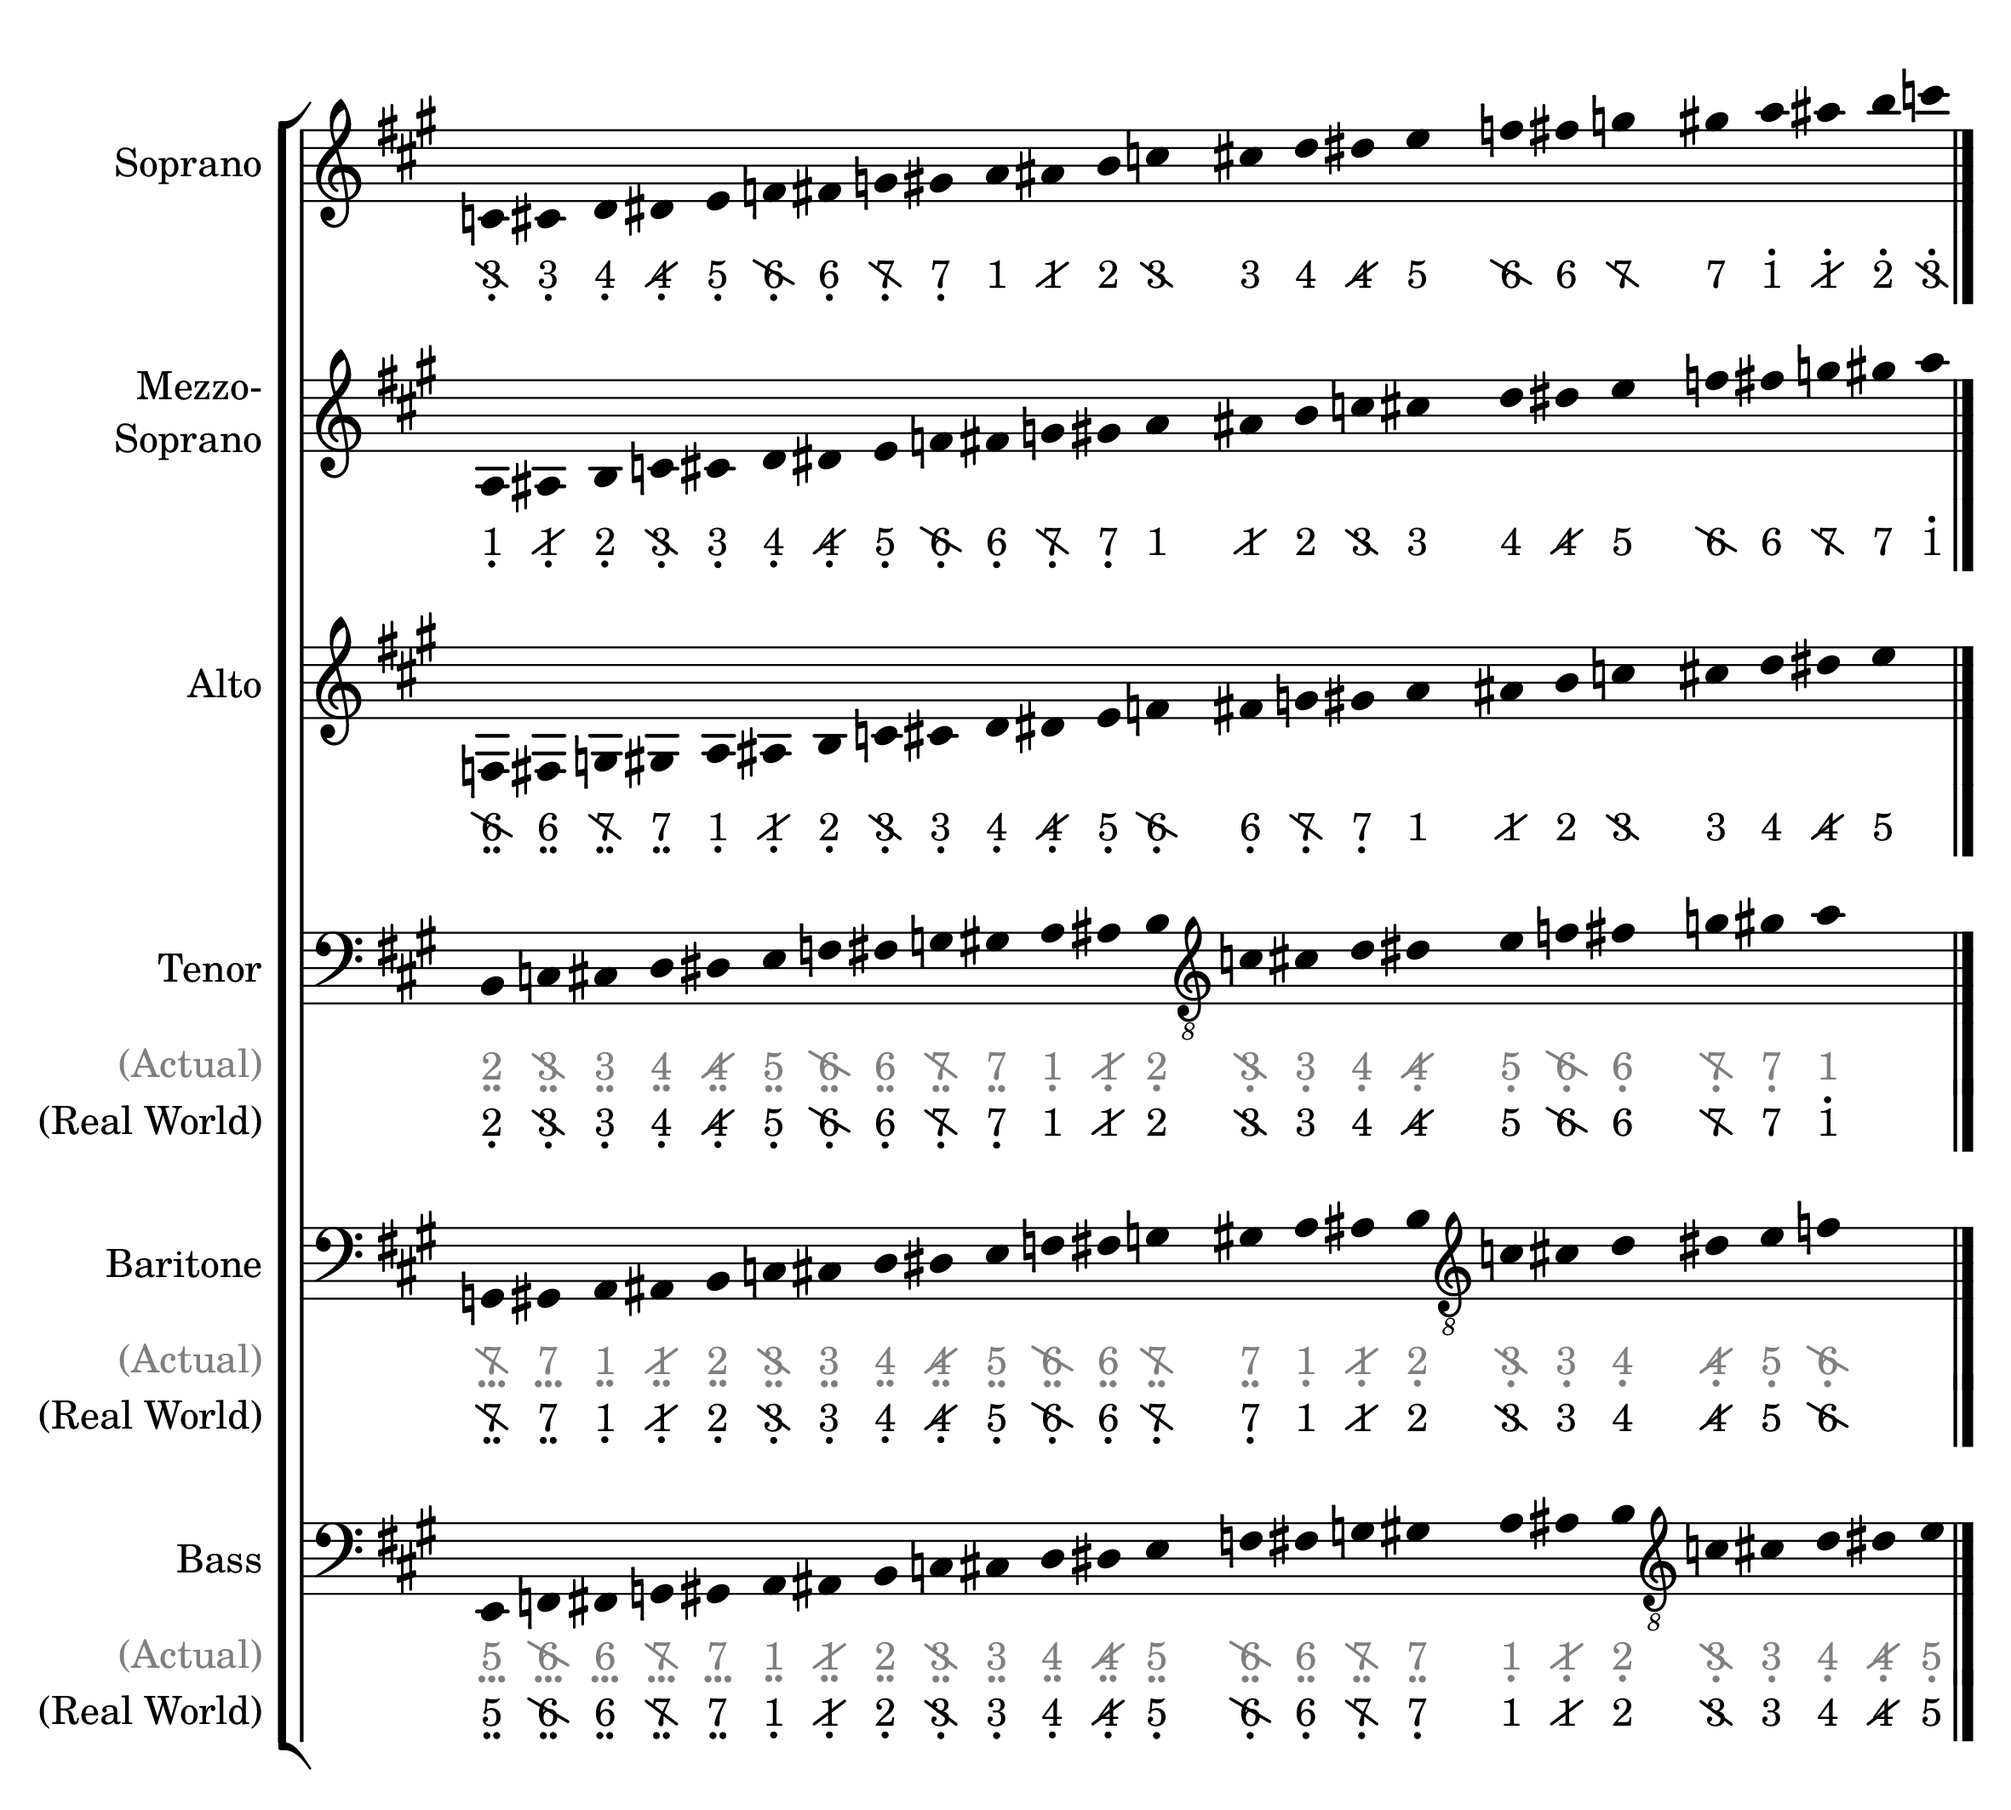
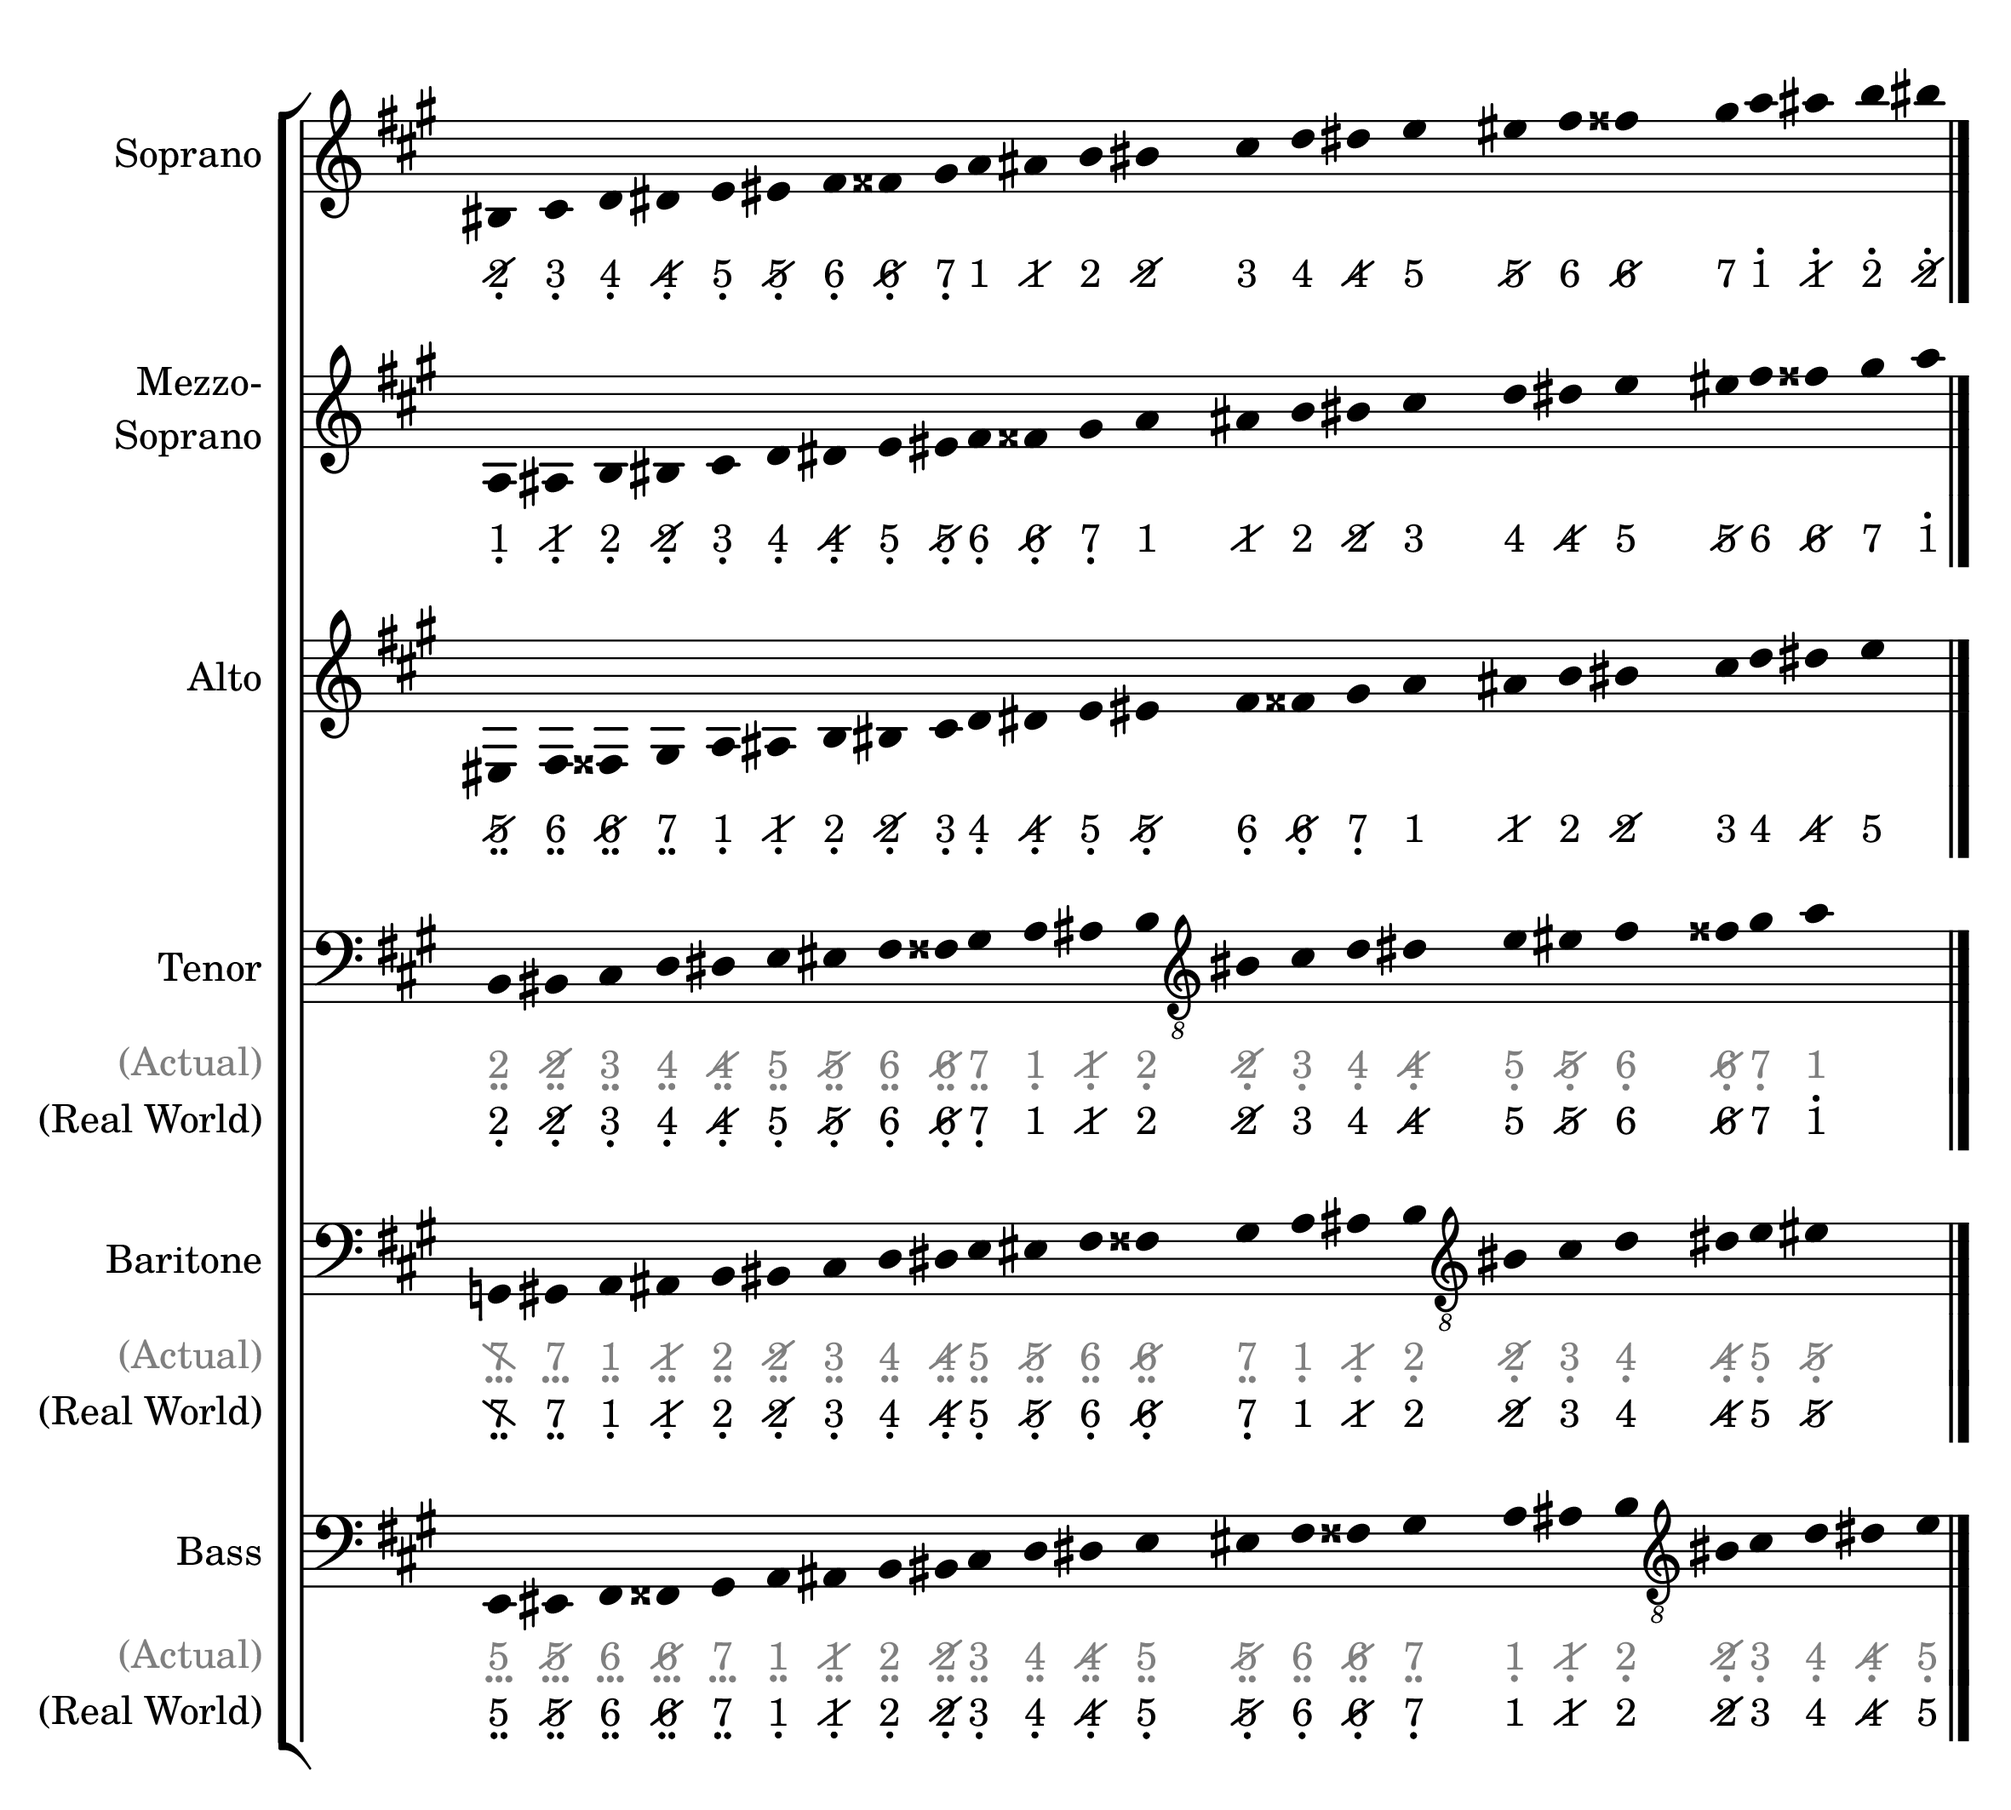
Finishing standard-vs-solmisasi/index.md

diff --git a/docs/standard-vs-solmisasi/index.md b/docs/standard-vs-solmisasi/index.md
@@ -42,75 +42,70 @@ There are 2 solmisasi sub-staves below the standard male vocal staves: _(Actual)
 ## Pitches in Sharp Key Signatures
 {: .text-delta .fs-6 }
 
-- ### G Major (One Sharp)
+All pitches shown below are written in **'sharp mode'**.
+{: .fs-5 }
 
-  #### Mode 1: Actual
-  {: no_toc }
+- ### G Major or E Minor (One Sharp)
 
-  The actual conversion from standard to solmisasi system is shown below.
   <details>
   <summary>Click to show/hide</summary>
   <img src="./comparison-g-maj.png">
   </details>
 
-  #### Mode 1: Common Alternative
-  {: no_toc }
-
-  However, it is a common practice that the music author define the `G3` pitch (first `G` below middle `C`, or `g` in Lilypond syntax) as the natural `1` (`do`). This can be achieved by transposing the music up by one octave in conversion process. So, this 'adjusted' alternative conversion is shown below.
-  <details>
-  <summary>Click to show/hide</summary>
-  <img src="./comparison-g-maj-2.png">
-  </details>
-
-- ### D Major (Two Sharps)
+- ### D Major of B Minor (Two Sharps)
 
   <details>
   <summary>Click to show/hide</summary>
   <img src="./comparison-d-maj.png">
   </details>
 
-- ### A Major (Three Sharps)
+- ### A Major or F♯ Minor (Three Sharps)
+
+  In this key signature, there are 2 modes in writing notes in solmisasi system as described below.
+  {: .fs-5 }
 
   #### Mode 1: Actual
   {: no_toc }
 
   The actual conversion from standard to solmisasi system is shown below.
+  {: .fs-5 }
   <details>
   <summary>Click to show/hide</summary>
   <img src="./comparison-a-maj.png">
   </details>
 
-  #### Mode 1: Common Alternative
+  #### Mode 2: Common Alternative
   {: no_toc }
 
-  Similar to the case of [G major key](#g-major-one-sharp), it is a common practice that the music author define the `A3` pitch (first `A` below middle `C`, or `a` in Lilypond syntax) as the natural `1` (`do`). This can be achieved by transposing the music up by one octave in conversion process. So, this 'adjusted' conversion is shown below.
+  However, it is a common practice that the music author define the `A3` pitch (first `A` below middle `C`, or `a` in default Lilypond pitch name syntax) as the natural `1` (`do`). This can be achieved by transposing the converted-to-solmisasi music up by one octave. So, this 'adjusted' conversion is shown below.
+  {: .fs-5 }
   <details>
   <summary>Click to show/hide</summary>
   <img src="./comparison-a-maj-2.png">
   </details>
 
-- ### E Major (Four Sharps)
+- ### E Major or C♯ Minor (Four Sharps)
 
   <details>
   <summary>Click to show/hide</summary>
   <img src="./comparison-e-maj.png">
   </details>
 
-- ### B Major (Five Sharps)
+- ### B Major or G♯ Minor (Five Sharps)
 
   <details>
   <summary>Click to show/hide</summary>
   <img src="./comparison-b-maj.png">
   </details>
 
-- ### F♯ Major (Six Sharps)
+- ### F♯ Major or D♯ Minor (Six Sharps)
 
   <details>
   <summary>Click to show/hide</summary>
   <img src="./comparison-fis-maj.png">
   </details>
 
-- ### C♯ Major (Seven Sharps)
+- ### C♯ Major or A♯ Minor (Seven Sharps)
 
   <details>
   <summary>Click to show/hide</summary>
@@ -122,10 +117,109 @@ There are 2 solmisasi sub-staves below the standard male vocal staves: _(Actual)
 ## Pitches in Flat Key Signatures
 {: .text-delta .fs-6 }
 
-- ### F Major (One Flat)
+All pitches shown below are written in **'flat mode'**.
+{: .fs-5 }
+
+- ### F Major or D Minor (One Flat)
+
+  <details>
+  <summary>Click to show/hide</summary>
+  <img src="./comparison-f-maj.png">
+  </details>
+
 - ### B♭ Major (Two Flats)
+
+  In this key signature, there are 2 modes in writing notes in solmisasi system as described below.
+  {: .fs-5 }
+
+  #### Mode 1: Actual
+  {: no_toc }
+
+  The actual conversion from standard to solmisasi system is shown below.
+  {: .fs-5 }
+  <details>
+  <summary>Click to show/hide</summary>
+  <img src="./comparison-bes-maj.png">
+  </details>
+
+  #### Mode 2: Common Alternative
+  {: no_toc }
+
+  Similar to the case of [A Major or F# Minor key](#a-major-or-f-minor-three-sharps), it is a common practice that the music author define the `B♭3` pitch (first `B♭` below middle `C`, or `bes` in default Lilypond pitch name syntax) as the natural `1` (`do`). This can be achieved by transposing the converted-to-solmisasi music up by one octave. So, this 'adjusted' conversion is shown below.
+  {: .fs-5 }
+  <details>
+  <summary>Click to show/hide</summary>
+  <img src="./comparison-bes-maj-2.png">
+  </details>
+
 - ### E♭ Major (Three Flats)
+
+  <details>
+  <summary>Click to show/hide</summary>
+  <img src="./comparison-es-maj.png">
+  </details>
+
 - ### A♭ Major (Four Flats)
+
+  In this key signature, there are 2 modes in writing notes in solmisasi system as described below.
+  {: .fs-5 }
+
+  #### Mode 1: Actual
+  {: no_toc }
+
+  The actual conversion from standard to solmisasi system is shown below.
+  {: .fs-5 }
+  <details>
+  <summary>Click to show/hide</summary>
+  <img src="./comparison-aes-maj.png">
+  </details>
+
+  #### Mode 2: Common Alternative
+  {: no_toc }
+
+  Similar to the case of [A Major or F# Minor key](#a-major-or-f-minor-three-sharps), it is a common practice that the music author define the `A♭3` pitch (first `A♭` below middle `C`, or `aes` in default Lilypond pitch name syntax) as the natural `1` (`do`). This can be achieved by transposing the converted-to-solmisasi music up by one octave. So, this 'adjusted' conversion is shown below.
+  {: .fs-5 }
+  <details>
+  <summary>Click to show/hide</summary>
+  <img src="./comparison-aes-maj-2.png">
+  </details>
+
 - ### D♭ Major (Five Flats)
+
+  <details>
+  <summary>Click to show/hide</summary>
+  <img src="./comparison-des-maj.png">
+  </details>
+
 - ### G♭ Major (Six Flats)
+
+  <details>
+  <summary>Click to show/hide</summary>
+  <img src="./comparison-ges-maj.png">
+  </details>
+
 - ### C♭ Major (Seven Flats)
+
+  <details>
+  <summary>Click to show/hide</summary>
+  <img src="./comparison-ces-maj.png">
+  </details>
+
+---
+
+## Preferred Pitch Numbers
+{: .text-delta .fs-6 }
+
+In most cases of writing score/sheet music in _solmisasi_ system and based on common practice, especially in Indonesia, regardless of the key signatures being used, there are some pitch numbers which users (singers, vocal groups, or choirs) doesn't like. Therefore, many music authors tend to avoid using these pitch numbers.<br>
+The preferred solmisasi pitch numbers are listed below.
+{: .fs-5 }
+<img src="./preferred-pitch-numbers.png" width="400" />
+
+The question is: _How do we choose the pitches to be used, if the 'original' converted pitches are not the preferred ones?_
+{: .fs-5 }
+
+The answer would be totally based on the skill, style, and technique that the author have and use in creating Lilypond scores. Someone could just replace the avoided pitches with the preferred ones. However, if I intend to have both outputs (standard and solmisasi), I would prefer using 'tags' in my Lilypond snippets to distinguish those notes using their enharmonic equivalencies.
+{: .fs-5 }
+
+So, what are you waiting for? Let's [get started!](/docs/getting-started/)
+{: .fs-7 }

diff --git a/index.md b/index.md
@@ -14,7 +14,7 @@ permalink: /
 
 [Preamble](#preamble){: .btn .btn-primary .fs-5 .mb-4 .mb-md-0 .mr-2 } [Further Reading](#further-reading){: .btn .btn-green .fs-5 .mb-4 .mb-md-0 .mr-2 } [View it on GitHub](https://github.com/henriyulianto/solmisasi-lily){: .btn .fs-5 .mb-4 .mb-md-0 }
 
-![](/docs/assets/img/solmisasi-art2.jpg)
+![](/assets/img/solmisasi-art2.jpg)
 
 ---
 

diff --git a/docs/examples/index.md b/docs/examples/index.md
@@ -1,0 +1,5 @@
+---
+layout: default
+nav_order: 4
+title: Examples of Usage
+---

diff --git a/docs/getting-started/index.md b/docs/getting-started/index.md
@@ -1,0 +1,5 @@
+---
+layout: default
+nav_order: 3
+title: Getting Started
+---
